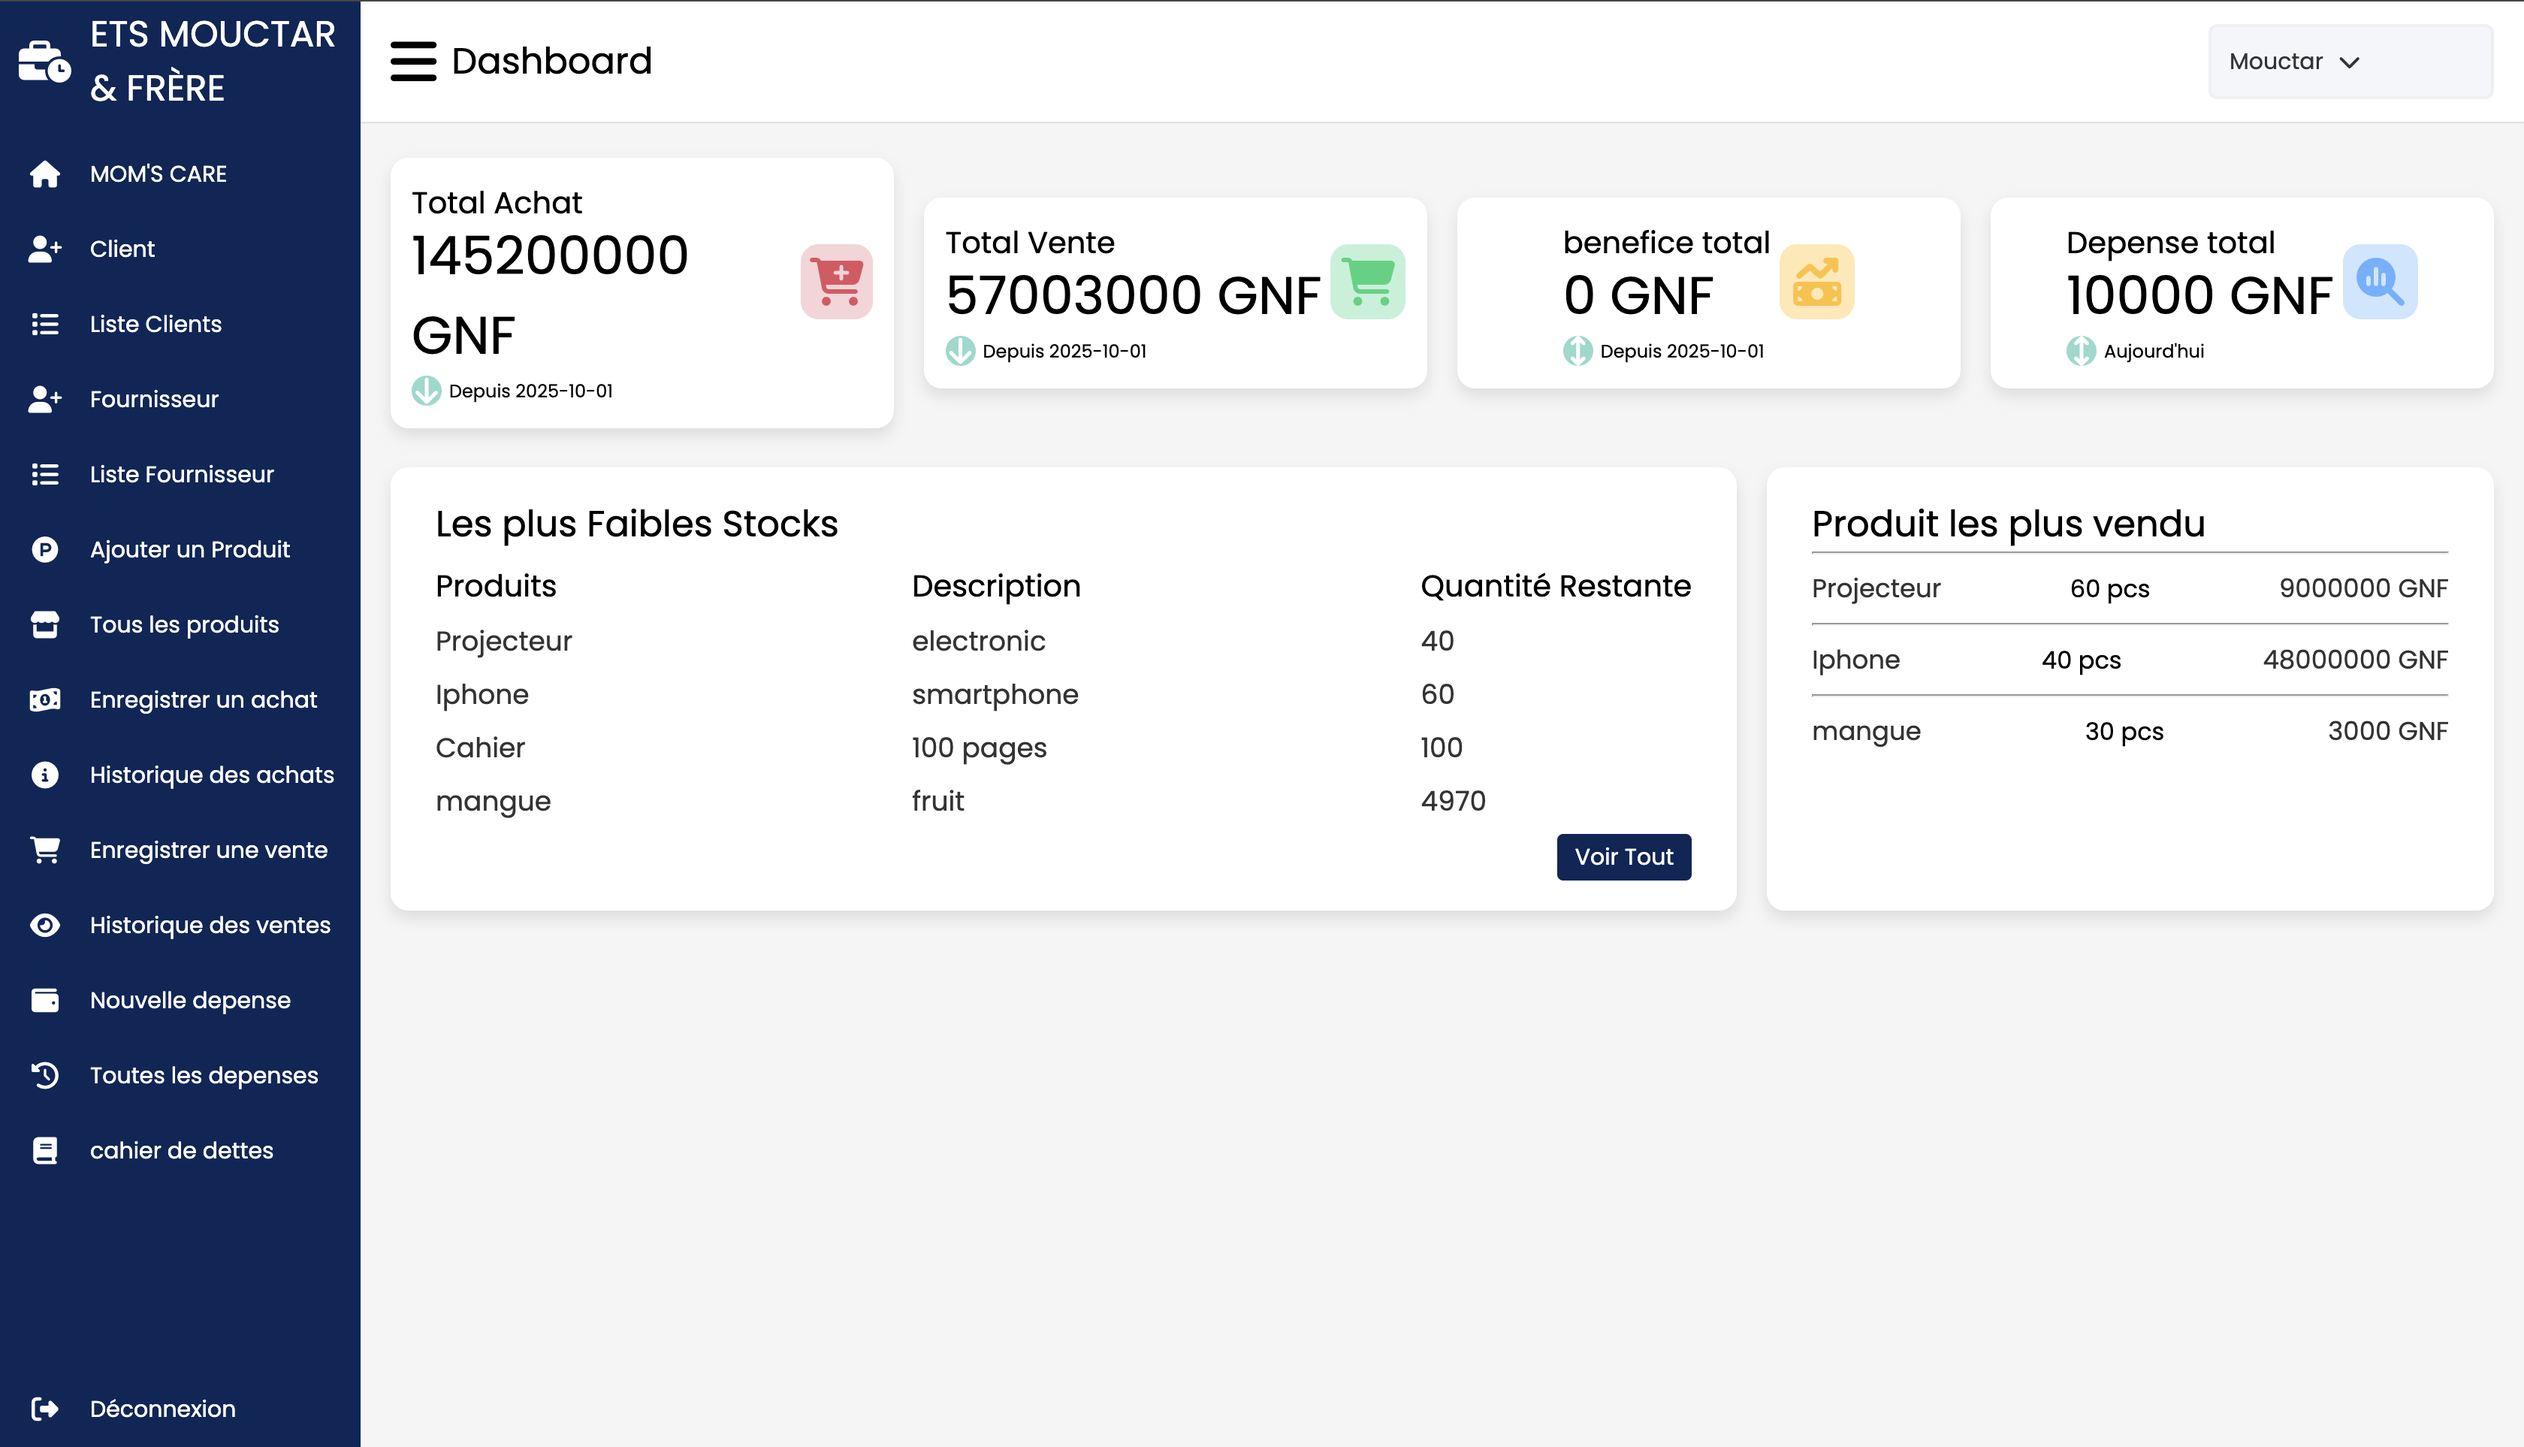
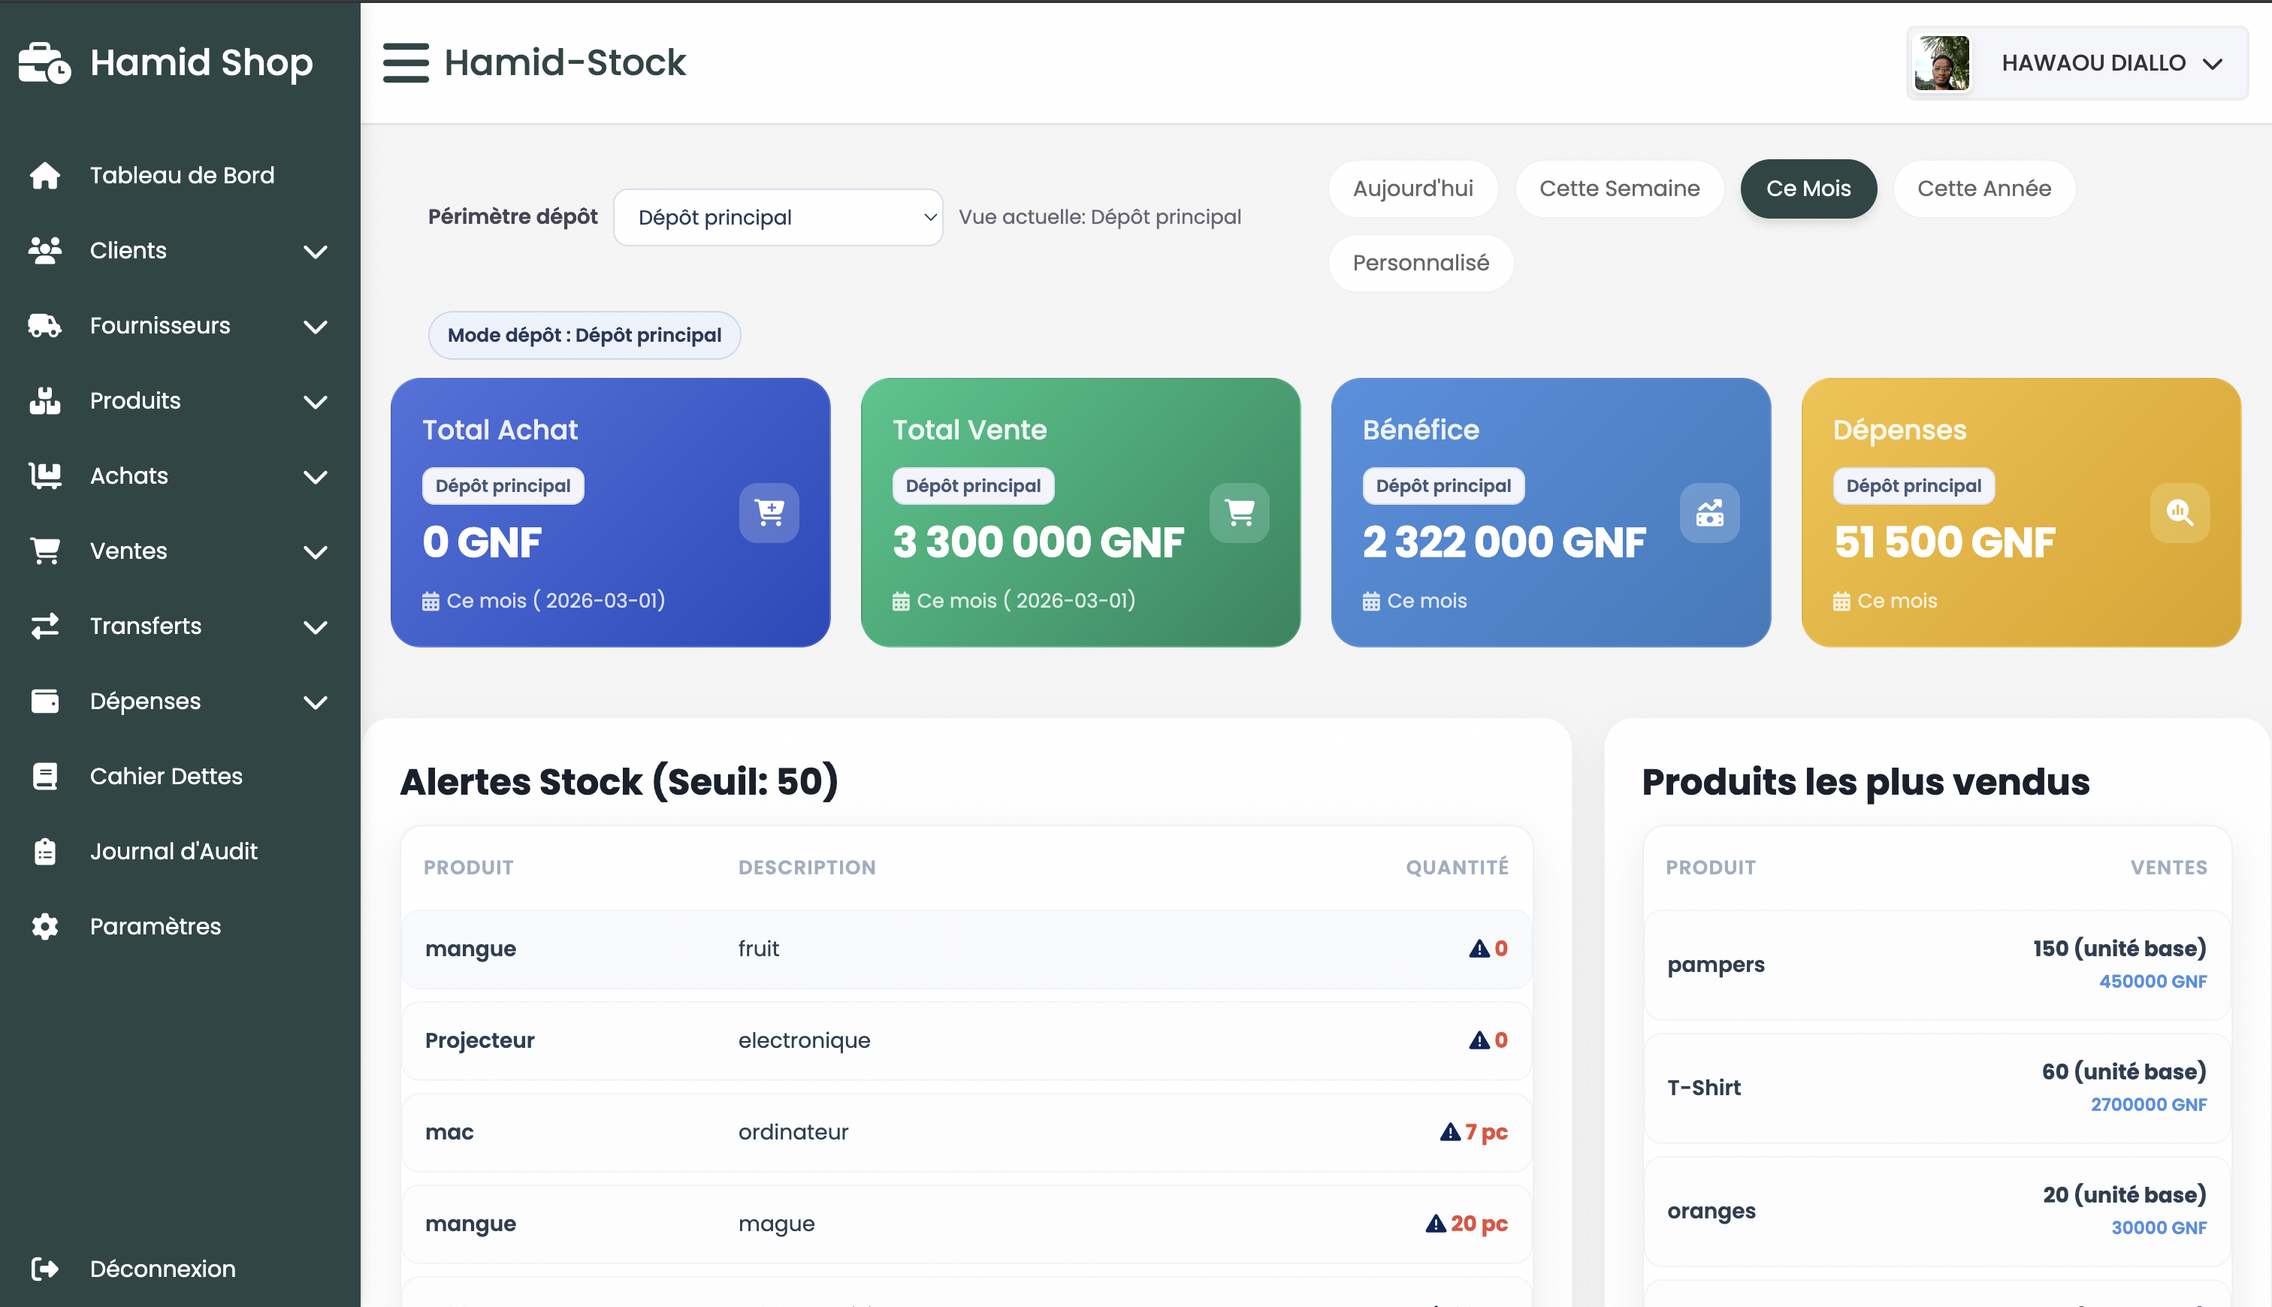
Correction du projet Gestion-Stock

diff --git a/components/projects-section.tsx b/components/projects-section.tsx
@@ -4,6 +4,15 @@ import { Badge } from "@/components/ui/badge"
 
 const projects = [
   {
+    title: "Application Web de Gestion de Stock",
+    description:
+      "Application web de gestion de stock et de facturation permettant de suivre les entrées et sorties de produits, gérer les fournisseurs, un paiement progressive des ventes, et générer automatiquement des factures claires et précises.",
+    technologies: ["Html", "Css", "JavaScript", "PHP"],
+    github: "https://github.com/hamiddiallo/gestionStock.git",
+    demo: "https://hamid-stock.up.railway.app/",
+    image: "/GestionStock.png",
+  },
+  {
     title: "Site de Restaurant Gastronomique",
     description:
       "Site web moderne pour un restaurant avec système de réservation en ligne, menu digital interactif et présentation élégante des plats. L'application inclut une galerie photo des spécialités, les horaires d'ouverture, et les informations de contact. Design responsive mettant en valeur l'ambiance du restaurant avec des animations fluides et une interface utilisateur intuitive.",
@@ -46,15 +55,6 @@ const projects = [
     github: "https://github.com/hamiddiallo/pharmacise.git",
     demo: "https://pharmacie-hamid.vercel.app/",
     image: "/pharmacy.png",
-  },
-  {
-    title: "Application Web de Gestion de Stock",
-    description:
-      "Application web de gestion de stock et de facturation permettant de suivre les entrées et sorties de produits, gérer les fournisseurs, un paiement progressive des ventes, et générer automatiquement des factures claires et précises.",
-    technologies: ["Html", "Css", "JavaScript", "PHP"],
-    github: "https://github.com/hamiddiallo/gestionStock.git",
-    demo: "",
-    image: "/GestionStock.png",
   },
   {
     title: "Système de recommandation dans les services de streaming de video educatif",

diff --git a/app/layout.tsx b/app/layout.tsx
@@ -20,6 +20,19 @@ export default function RootLayout({
       <body className={`font-sans ${GeistSans.variable} ${GeistMono.variable}`}>
         {children}
         <Analytics />
+        <script
+          dangerouslySetInnerHTML={{
+            __html: `
+              if ('serviceWorker' in navigator) {
+                navigator.serviceWorker.getRegistrations().then(function(registrations) {
+                  for(let registration of registrations) {
+                    registration.unregister();
+                  }
+                });
+              }
+            `,
+          }}
+        />
       </body>
     </html>
   )

diff --git a/public/sw.js b/public/sw.js
@@ -1,0 +1,2 @@
+// This file is intentionaly empty to silence the 404 error for /sw.js
+// This project does not use a service worker.
